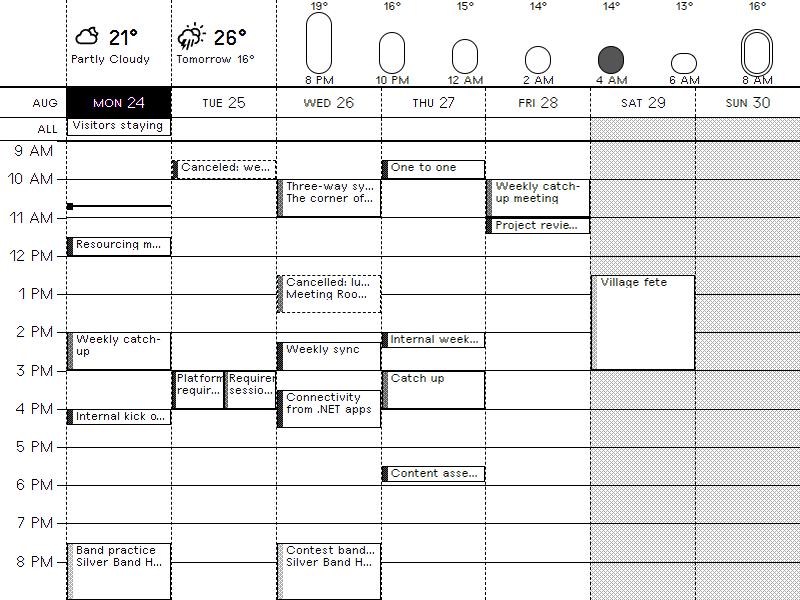
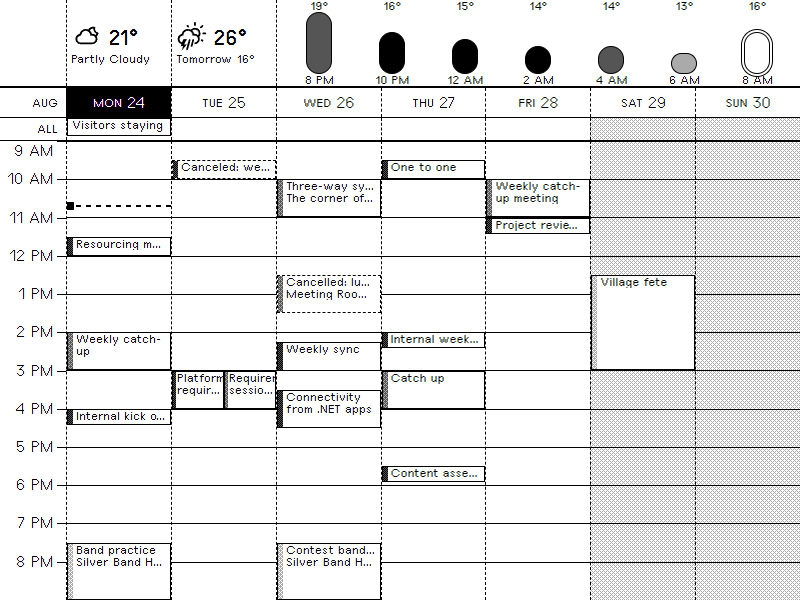
Shade the pills by daylight, and make the now-line survive an inverted block
Pill fill was keyed to each hour's weather icon, which read as noise: sunny,
cloudy and wet hours interleave, so the strip looked arbitrary rather than
telling you anything at a glance. It now darkens with the sun - day, sunrise or
sunset, twilight, night - from the weather source's own sunrise/sunset, falling
back to 06:00/19:00. The ramp is monotonic through the evening, so the strip
reads as dusk falling.

The now-line was solid ink and an in-progress event is filled with ink, so the
line disappeared exactly where it mattered. It is now a dashed ink-on-paper
rule, legible over both, with a paper-outlined marker dot. Thinned to 2px so it
covers less of the block it crosses.

Not changed: the reported bold line at 3 PM. Every hour gridline measures
exactly 1px at native 800x600; the screenshot showing it is 898x687, a ~1.12x
scaled preview, which aliases some 1px lines to 2px.

diff --git a/README.md b/README.md
@@ -66,25 +66,29 @@ Preview renders, from the sample payload in `.trmnlp.yml`:
 - All-day events in a band under the headings, one outlined chip per day
   covered, overflowing to `+N more`. Inversion is reserved for today and for
   anything in progress, so it keeps meaning something.
-- A now-line with a marker dot across today's column.
+- A now-line with a marker dot across today's column, dashed ink-on-paper so it
+  stays legible where it crosses an in-progress event, which is filled with ink —
+  a solid line vanished there, exactly where it mattered most.
 - Weather strip on the same column track as the grid: current conditions sit
   over today's column, tomorrow's high/low over tomorrow's column, and the
   hourly graph fills the columns after that. Without an hourly source the strip
   shrinks and the grid takes the space back.
-- The graph is a row of **rounded pills: height is temperature, fill is how
-  sunny that hour is**, read from the hourly source's own per-hour icon —
+- The graph is a row of **rounded pills: height is temperature, fill darkens as
+  the sun goes down** — read from the weather source's own sunrise and sunset,
+  falling back to 06:00/19:00 —
 
   | Fill | Hour |
   |---|---|
-  | empty | clear |
-  | light grey | partly cloudy |
-  | dark grey | overcast or fog |
-  | solid | rain, snow, sleet or storms |
+  | empty | full daylight |
+  | light grey | within an hour of sunrise or sunset |
+  | dark grey | twilight, up to two hours past |
+  | solid | night |
 
   Those are the four levels a 2-bit panel renders flat, with no dither texture to
-  muddy them at pill size; on 1-bit the middle two fall back to tiles. The
-  nearest hour gets a ring around its pill rather than a different fill, so fill
-  stays a pure weather signal.
+  muddy them at pill size; on 1-bit the middle two fall back to tiles. The ramp
+  is monotonic through the evening, so the strip reads as dusk falling rather
+  than as an arbitrary pattern. The nearest hour gets a ring around its pill
+  rather than a different fill, so fill stays a pure daylight signal.
 - Locations appear inside long events when they are a real place rather than a
   Teams or Zoom link.
 
